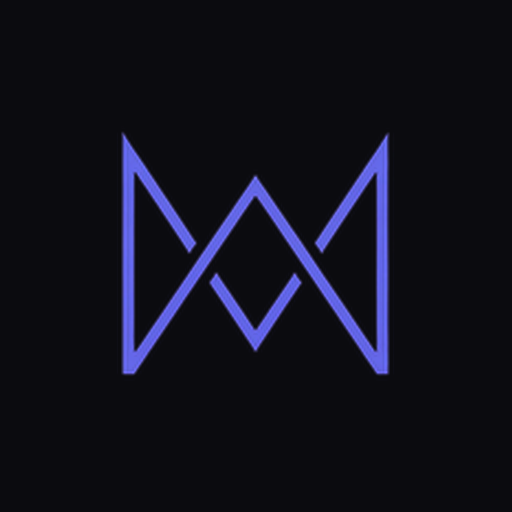
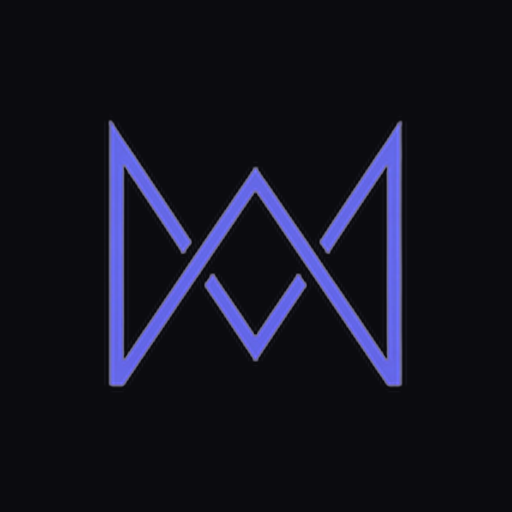
fix: PWA audit — theme_color consistency, manifest id, maskable safe zone, new splash screens
- Unify theme_color to #0B0B0F (meta tag matched manifest)
- Add id, lang, dir, categories to manifest
- Add 64x64 icon to manifest for better Android coverage
- Regenerate maskable icon at 60% ratio (fits 80% safe zone)
- Add splash screens for iPhone 15 Pro and 16 Pro Max
- Add sizes attribute to apple-touch-icon link
- Update generate-favicon.py to match deployed dark background icons

Changed region(s): [[0.1875, 0.2188, 0.8125, 0.7812]]

diff --git a/index.html b/index.html
@@ -3,9 +3,9 @@
   <head>
     <meta charset="UTF-8" />
     <link rel="icon" type="image/png" sizes="32x32" href="/favicon.png" />
-    <link rel="apple-touch-icon" href="/apple-touch-icon.png" />
+    <link rel="apple-touch-icon" sizes="180x180" href="/apple-touch-icon.png" />
     <meta name="viewport" content="width=device-width, initial-scale=1.0, viewport-fit=cover" />
-    <meta name="theme-color" content="#6C63FF" />
+    <meta name="theme-color" content="#0B0B0F" />
     <meta name="description" content="Suivez vos dépenses, gérez vos finances en solo ou en couple, et épargnez intelligemment. Gratuit, privé et disponible sur tous vos appareils." />
     <meta name="author" content="Monest" />
     <meta name="google-site-verification" content="gtXlzI-q6uhlDAQyefuWeNf0ip8gPYpipVQrVgG0VPo" />
@@ -39,8 +39,14 @@
     <meta name="mobile-web-app-capable" content="yes" />
     <meta name="apple-mobile-web-app-status-bar-style" content="black-translucent" />
     <!-- Apple Splash Screens -->
-    <link rel="apple-touch-startup-image" media="(device-width: 393px) and (device-height: 852px) and (-webkit-device-pixel-ratio: 3)" href="/splash-1179x2556.png" />
+    <!-- iPhone 16 Pro Max (6.9") -->
+    <link rel="apple-touch-startup-image" media="(device-width: 440px) and (device-height: 956px) and (-webkit-device-pixel-ratio: 3)" href="/splash-1320x2868.png" />
+    <!-- iPhone 16 Pro (6.3") / iPhone 15 Pro -->
+    <link rel="apple-touch-startup-image" media="(device-width: 402px) and (device-height: 874px) and (-webkit-device-pixel-ratio: 3)" href="/splash-1206x2622.png" />
+    <!-- iPhone 15 Plus / 15 Pro Max / 14 Plus -->
     <link rel="apple-touch-startup-image" media="(device-width: 430px) and (device-height: 932px) and (-webkit-device-pixel-ratio: 3)" href="/splash-1290x2796.png" />
+    <!-- iPhone 15 / 14 Pro -->
+    <link rel="apple-touch-startup-image" media="(device-width: 393px) and (device-height: 852px) and (-webkit-device-pixel-ratio: 3)" href="/splash-1179x2556.png" />
     <link rel="apple-touch-startup-image" media="(device-width: 390px) and (device-height: 844px) and (-webkit-device-pixel-ratio: 3)" href="/splash-1170x2532.png" />
     <link rel="apple-touch-startup-image" media="(device-width: 375px) and (device-height: 812px) and (-webkit-device-pixel-ratio: 3)" href="/splash-1125x2436.png" />
     <link rel="apple-touch-startup-image" media="(device-width: 414px) and (device-height: 896px) and (-webkit-device-pixel-ratio: 3)" href="/splash-1242x2688.png" />

diff --git a/vite.config.js b/vite.config.js
@@ -14,9 +14,13 @@ export default defineConfig({
       registerType: 'autoUpdate',
       includeAssets: ['favicon.svg', 'favicon.png', 'apple-touch-icon.png', 'logo-crown.png'],
       manifest: {
+        id: '/',
         name: 'Monest — Votre budget, en clair',
         short_name: 'Monest',
         description: 'Votre budget, en clair. Charges, épargne, reste à vivre — tout en un.',
+        lang: 'fr',
+        dir: 'ltr',
+        categories: ['finance', 'lifestyle'],
         theme_color: '#0B0B0F',
         background_color: '#0B0B0F',
         display: 'standalone',
@@ -28,6 +32,7 @@ export default defineConfig({
           client_mode: ['navigate-existing', 'auto'],
         },
         icons: [
+          { src: '/pwa-64x64.png', sizes: '64x64', type: 'image/png' },
           { src: '/pwa-192.png', sizes: '192x192', type: 'image/png' },
           { src: '/pwa-512.png', sizes: '512x512', type: 'image/png' },
           { src: '/pwa-512-maskable.png', sizes: '512x512', type: 'image/png', purpose: 'maskable' },

diff --git a/scripts/generate-favicon.py b/scripts/generate-favicon.py
@@ -1,24 +1,36 @@
 #!/usr/bin/env python3
-"""Generate favicon/PWA icons using the real crown logo (transparent background)"""
+"""Generate favicon/PWA icons with crown logo on dark background (#0B0B0F)"""
 from PIL import Image
 import os
 
 OUT = os.path.join(os.path.dirname(__file__), "..", "public")
 LOGO_SRC = os.path.join(OUT, "logo-crown-sm.png")
+BG_COLOR = (11, 11, 15, 255)  # #0B0B0F
 
 
-def make_favicon(size, filename):
-    img = Image.new("RGBA", (size, size), (0, 0, 0, 0))
+def make_icon(size, filename, logo_ratio=0.75):
+    """Generate an icon with logo centered on dark background.
+    logo_ratio: portion of icon size used by the logo (0.75 = 25% total padding)
+    """
+    img = Image.new("RGBA", (size, size), BG_COLOR)
     logo = Image.open(LOGO_SRC).convert("RGBA")
-    logo = logo.resize((size, size), Image.LANCZOS)
-    img.paste(logo, (0, 0), logo)
+    logo_size = int(size * logo_ratio)
+    logo = logo.resize((logo_size, logo_size), Image.LANCZOS)
+    offset = (size - logo_size) // 2
+    img.paste(logo, (offset, offset), logo)
     img.save(os.path.join(OUT, filename), "PNG", optimize=True)
-    print(f"  {filename} ({size}x{size})")
+    print(f"  {filename} ({size}x{size}, logo {int(logo_ratio*100)}%)")
 
 
-print("Generating favicons with crown logo (transparent)...")
-make_favicon(32, "favicon.png")
-make_favicon(180, "apple-touch-icon.png")
-make_favicon(192, "pwa-192.png")
-make_favicon(512, "pwa-512.png")
+print("Generating PWA icons (dark background #0B0B0F)...")
+make_icon(32, "favicon.png")
+make_icon(64, "pwa-64x64.png")
+make_icon(180, "apple-touch-icon.png")
+make_icon(180, "apple-touch-icon-180x180.png")
+make_icon(192, "pwa-192.png")
+make_icon(192, "pwa-192x192.png")
+make_icon(512, "pwa-512.png")
+make_icon(512, "pwa-512x512.png")
+# Maskable: logo at 60% so it fits within the 80% safe zone
+make_icon(512, "pwa-512-maskable.png", logo_ratio=0.60)
 print("Done!")
